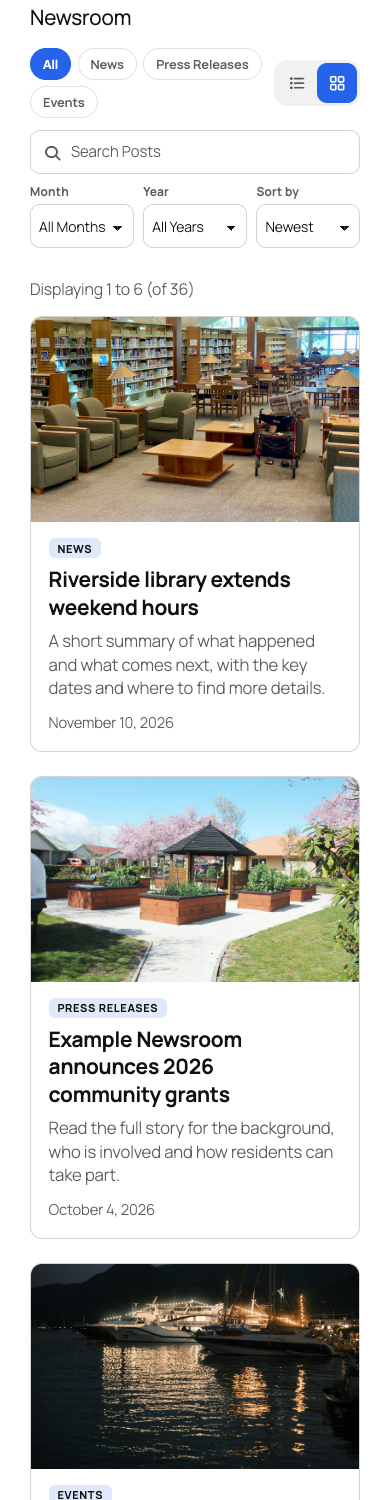
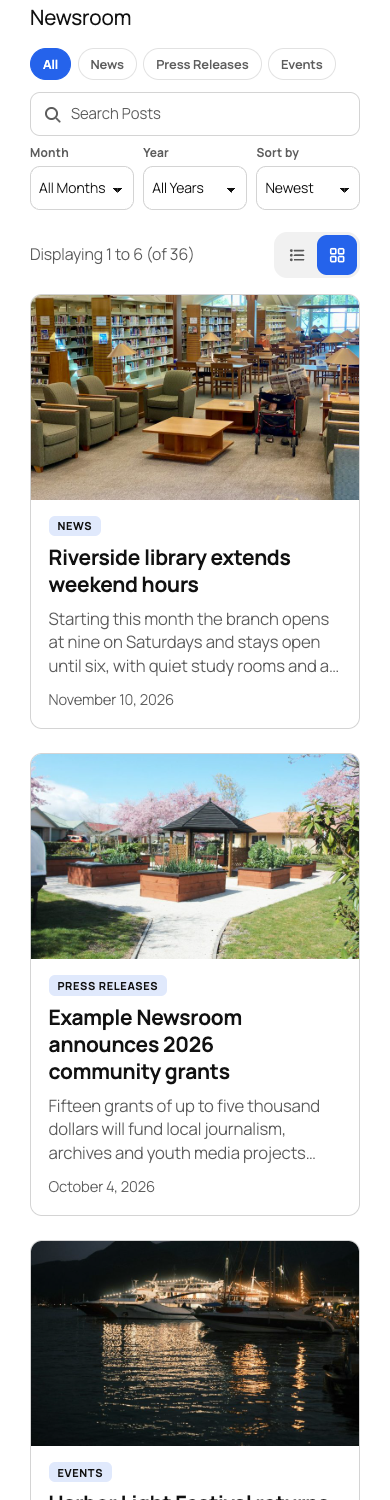
Article-specific demo excerpts, retaken listing screenshots and announcement thumbnails, refreshed translation template

diff --git a/docs/screenshots/seed-demo.php b/docs/screenshots/seed-demo.php
@@ -65,10 +65,44 @@ $items = array(
 	),
 );
 
+// One excerpt per article, written for it, so the screenshots show believable cards (not the same sentence repeated).
 $excerpts = array(
-	'A short summary of what happened and what comes next, with the key dates and where to find more details.',
-	'Read the full story for the background, who is involved and how residents can take part.',
-	'Details, schedule and contact information are available on the page, along with related coverage.',
+	'Riverside library extends weekend hours' => 'Starting this month the branch opens at nine on Saturdays and stays open until six, with quiet study rooms and a children\'s story hour.',
+	'City council approves new bike lanes on Harbor Street' => 'Protected lanes will run the length of Harbor Street by autumn, with new crossings near the ferry terminal and the market.',
+	'Local bakery wins regional sustainability award' => 'The family-run bakery was recognised for composting its waste, buying flour from nearby farms and delivering by cargo bike.',
+	'School garden program expands to six more campuses' => 'Students will grow vegetables and herbs this spring, and the harvest will supply the school kitchens and a weekly neighbourhood stand.',
+	'Ferry service adds evening crossings this summer' => 'Two extra sailings leave the harbour after seven on Thursdays through Sundays, timed to match the festival and the concert series.',
+	'Community solar project reaches full subscription' => 'More than three hundred households have signed up for shared panels on the old depot roof, cutting their bills from next month.',
+	'Public art trail opens along the waterfront' => 'Eleven new murals and sculptures line the mile-long walk, each with a short audio note from the artist about its story.',
+	'Neighborhood clean-up draws record volunteers' => 'Nearly five hundred residents filled two hundred bags along the river path on Saturday, and local shops donated lunch for everyone.',
+	'Transit agency introduces contactless fares' => 'Riders can now tap a card or phone on buses and trains, with daily and weekly caps so frequent travellers never overpay.',
+	'Winter shelter network opens early this year' => 'Four churches and a community hall will offer beds from the first cold night, with hot meals and help finding permanent housing.',
+	'Farmers market launches weekly recipe series' => 'Each Saturday a local cook turns the week\'s produce into a simple dish, with printed recipes at the information stall.',
+	'Harbor dredging project completes ahead of schedule' => 'Crews finished clearing the main channel three weeks early, reopening the deep berths to the fishing fleet and visiting ships.',
+	'Example Newsroom announces 2026 community grants' => 'Fifteen grants of up to five thousand dollars will fund local journalism, archives and youth media projects across the region.',
+	'Quarterly results: membership grows 12 percent' => 'Paid membership reached its highest level yet, driven by a new student rate and the success of the autumn reader drive.',
+	'New partnership brings free Wi-Fi to public parks' => 'Eight parks will have free, password-free internet by spring thanks to an agreement with the city and a regional provider.',
+	'Annual report now available online' => 'The report covers programs, finances and audience growth for the year, with a plain-language summary and downloadable data tables.',
+	'Appointment of a new director of programs' => 'The board has named a longtime community organiser to lead programs, beginning with a listening tour of neighbourhood groups.',
+	'Statement on the proposed harbor development' => 'We support public access to the shoreline and ask the developer to publish its traffic and flood studies before the hearing.',
+	'Call for proposals: neighborhood storytelling fund' => 'Residents and small groups can apply for support to record oral histories, photograph local life or publish a neighbourhood zine.',
+	'Launch of the open data portal' => 'Budgets, meeting records and service statistics are now searchable in one place, with every dataset free to download and reuse.',
+	'Update to our privacy and accessibility commitments' => 'We have shortened our privacy notice, removed third-party trackers and completed an independent accessibility review of the site.',
+	'Winter schedule and holiday closures' => 'Offices close on public holidays and run shorter hours in December, while the online services stay available at all times.',
+	'Volunteer of the year announced' => 'A retired teacher who has hosted the reading circle for twelve years received the award at the annual members\' evening.',
+	'Joint statement with regional libraries' => 'Together with nine library systems we call for fair e-book licensing so every reader can borrow the books they want.',
+	'Harbor Light Festival returns to the waterfront' => 'Three evenings of lanterns, food stalls and live music light up the quay, with a lantern-making workshop for families on Friday.',
+	'Open house at the community workshop' => 'Come and try woodworking, bike repair and 3D printing, and meet the volunteers who run the free weekend classes.',
+	'Spring book fair at the central library' => 'Hundreds of donated books go on sale for a dollar each, with author readings in the main hall and a swap table for children.',
+	'Town hall: transit improvements' => 'Planners will present three route options and answer questions, and residents can share their daily trips before the plan is finalised.',
+	'Seed swap and planting day' => 'Bring spare seeds, take new ones and help plant the new community beds, with tea and advice from the master gardeners.',
+	'Evening concert series opens in the park' => 'Free Thursday concerts begin at six with a brass band, followed by folk, jazz and a closing night of local school choirs.',
+	'Resume and career help drop-in' => 'Volunteers from local employers review resumes, practise interviews and explain training programs in friendly twenty-minute sessions.',
+	'Photography walk along the river' => 'A guided two-hour walk at sunrise, suitable for phones and cameras, ending with a small exhibition of the morning\'s pictures.',
+	'Winter lights parade' => 'Decorated bikes, boats-on-wheels and school bands lead the parade through the old town, finishing with hot chocolate in the square.',
+	'Youth coding day' => 'Young people aged ten to sixteen build a small game in a single afternoon, with mentors on hand and laptops provided.',
+	'Neighborhood potluck and games' => 'Bring a dish to share and join lawn games, a music corner and a table where neighbours swap stories and recipes.',
+	'Annual membership meeting' => 'Members review the year, vote on the budget and elect two board seats, with childcare and live captioning available.',
 );
 
 // Cover photos for the designs that show images: free Unsplash photographs, matched to articles by title (see photos.json and
@@ -102,8 +136,8 @@ for ( $row = 0; $row < 12; $row++ ) {
 				'post_status'   => 'publish',
 				'post_date'     => $date,
 				'post_date_gmt' => $date,
-				'post_excerpt'  => $excerpts[ $i % 3 ],
-				'post_content'  => $excerpts[ $i % 3 ],
+				'post_excerpt'  => $excerpts[ $titles[ $row ] ],
+				'post_content'  => $excerpts[ $titles[ $row ] ],
 				'post_category' => array( $cats[ $slug ] ),
 			)
 		);
